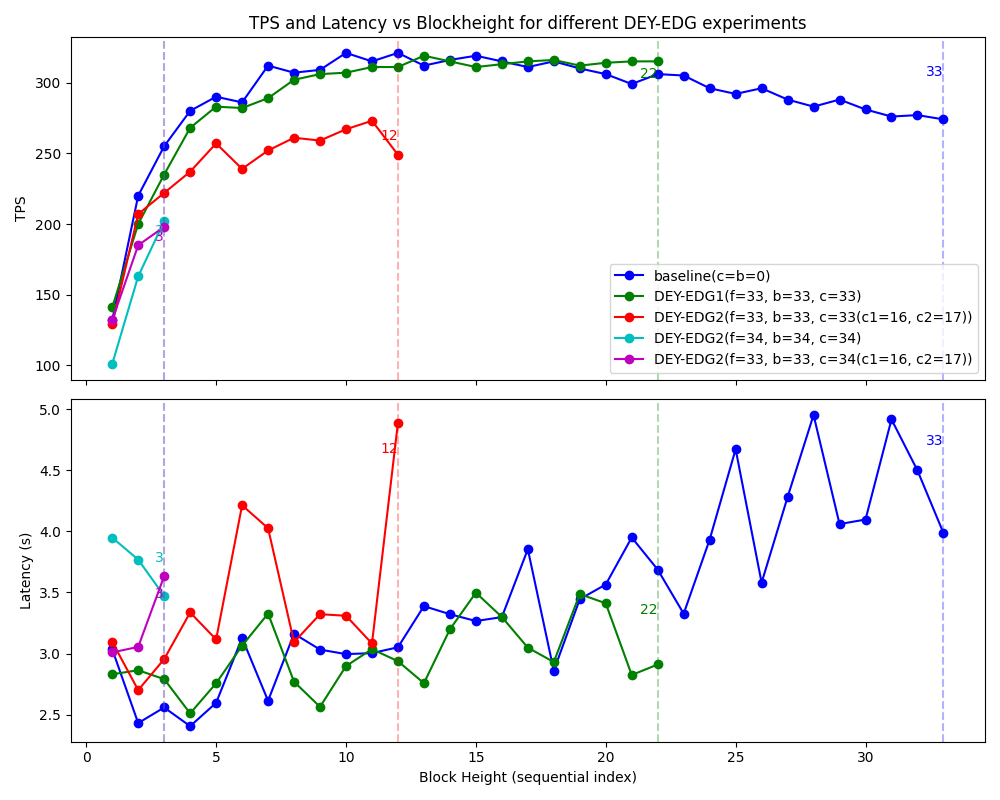
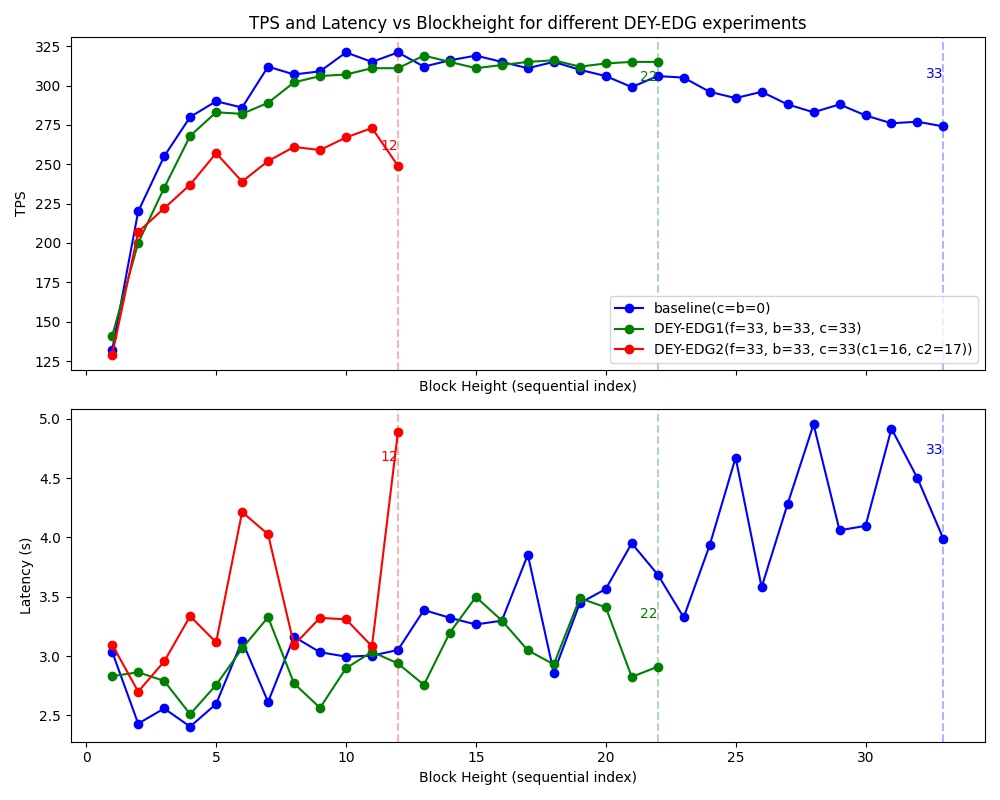
add safety liveness robustness

diff --git a/slr.py b/slr.py
@@ -1,0 +1,33 @@
+import matplotlib.pyplot as plt
+
+# 三个维度点
+points = {
+    "Safety": (0, 1),
+    "Liveness": (-0.87, -0.5),
+    "Robustness": (0.87, -0.5)
+}
+
+fig, ax = plt.subplots(figsize=(6,6))
+
+# 画三角形
+triangle = plt.Polygon(list(points.values()), fill=None, edgecolor='black', linewidth=1.5)
+ax.add_patch(triangle)
+
+# 添加点和标签
+for label, (x,y) in points.items():
+    ax.plot(x, y, 'o', markersize=8, color='black')
+    ax.text(x*1.15, y*1.15, label, ha='center', va='center', fontsize=12, weight='bold')
+
+# 在中心加一个说明
+ax.text(0, 0, "BFT Consensus\nSystem Quality", 
+        ha='center', va='center', fontsize=11, color='darkred')
+
+ax.set_xlim(-1.2, 1.2)
+ax.set_ylim(-1.2, 1.2)
+ax.set_aspect('equal')
+ax.axis('off')
+
+plt.title("Safety - Liveness - Robustness Triangle", fontsize=13, weight='bold')
+plt.tight_layout()
+plt.savefig("slr.png")
+# plt.show()

diff --git a/b_dey_edg.py b/b_dey_edg.py
@@ -17,17 +17,11 @@ data = {
     "DEY-EDG2(f=33, b=33, c=33(c1=16, c2=17))": [
         (129,3.096),(207,2.7),(222,2.954),(237,3.336),(257,3.115),(239,4.214),(252,4.026),(261,3.093),
         (259,3.322),(267,3.309),(273,3.082),(249,4.89)
-    ],
-    "DEY-EDG2(f=34, b=34, c=34)": [
-        (101,3.949),(163,3.769),(202,3.471)
-    ],
-    "DEY-EDG2(f=34, b=33, c=34(c1=16, c2=17))": [
-        (132,3.009),(185,3.054),(198,3.634)
     ]
 }
 
 fig, axes = plt.subplots(2, 1, figsize=(10,8), sharex=True)
-colors = ['b','g','r','c','m']
+colors = ['b','g','r']
 
 for i,(label,vals) in enumerate(data.items()):
     x = list(range(1, len(vals)+1))  # 模拟blockheight为顺序编号
